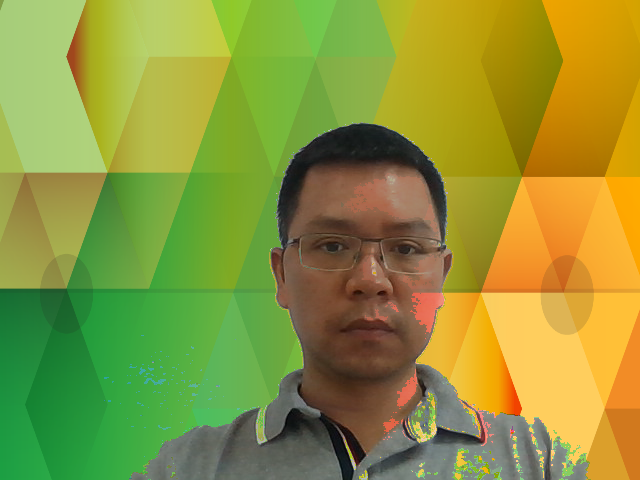
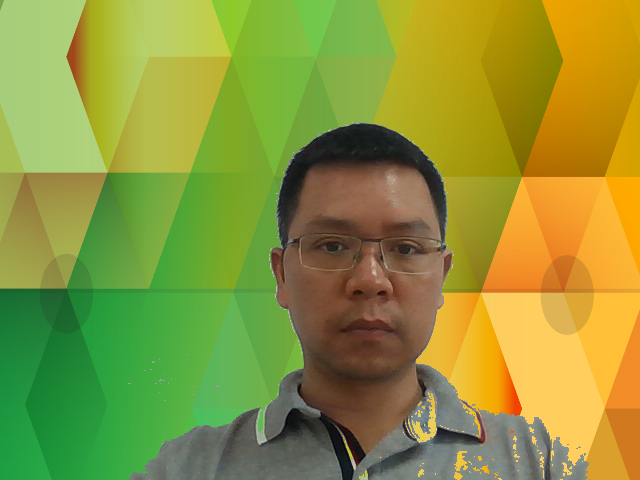
background

diff --git a/Module 2/Week2/background/process.py b/Module 2/Week2/background/process.py
@@ -11,8 +11,10 @@ def backgroundExtract(stillImage,background,fakebackground):
     fakebackground=cv2.resize(fakebackground, (640, 480))
 
     difference= cv2.absdiff(stillImage, background)
-    _, difference = cv2.threshold(difference, 15, 255, cv2.THRESH_BINARY)
-    
-    output=np.where(difference ==0, fakebackground, stillImage)
+    difference_single=np.sum(difference, axis=2)/3.0
+    difference_single = difference_single.astype(np.uint8)
+    difference_binary=np.where(difference_single >=15, 255, 0).astype(np.uint8)
+    difference_binary = np.stack((difference_binary,)*3, axis=-1)
+    output = np.where(difference_binary == 255, stillImage, fakebackground)
     cv2.imwrite('output.png', output)
 backgroundExtract('StillImage.png', 'background.png', 'FakeBackground.png')
